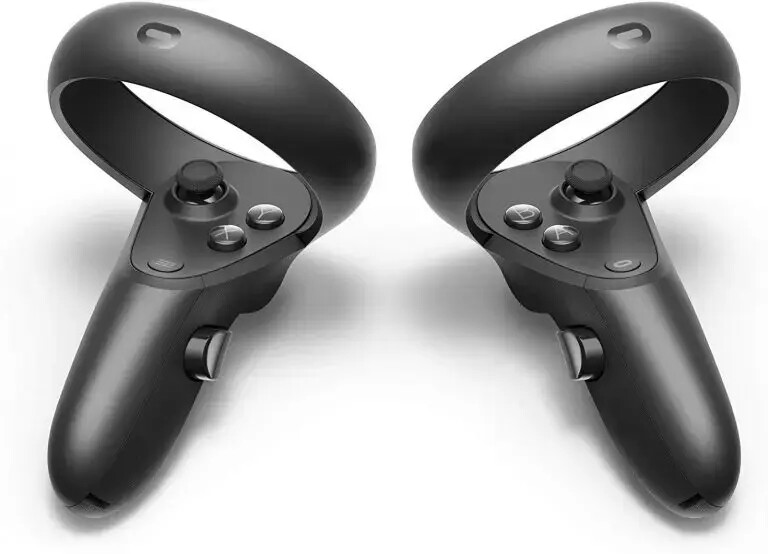
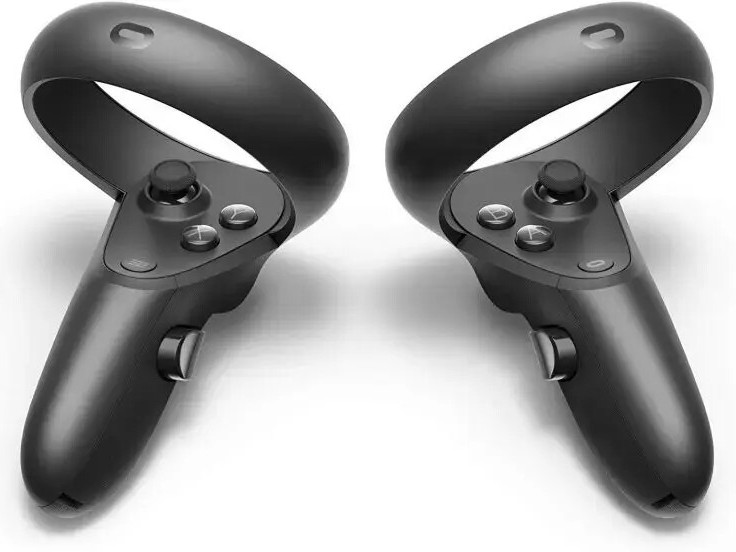
Update image format in Problem

diff --git a/_sections/2-problem.md b/_sections/2-problem.md
@@ -9,19 +9,47 @@ There currently is not a standard unified interface in Virtual Reality (VR), and
 
 
 
->The song selection menu in Beat Saber, one of the most popular VR games, is based on user interface design for 2D surface interactions
->
->![Beat Saber](assets/images/related-works/beat-saber.jpg)
-> <sub>Beat Games, "Beat Saber"</sub>
+
+  <div class="6u 12u$(mobile)">
+    <div class="item">
+      <a class="image fit"><img src="assets/images/related-works/beat-saber.jpg" alt="Beat Saber" /></a>
+      <header>
+        <h3>Beat Games, <i>Beat Saber</i></h3>
+      </header>
+    </div>
+  </div>
+The song selection menu in Beat Saber, one of the most popular VR games, is based on user interface design for 2D surface interactions
 
 
-\
 VR provides the sense of embodiment by mapping the player's movement to the avatar in virtual space. However, most experiences do not utilize this feature, and the player's embodied virtual body is not being used. Furthermore, the player manipulates the VR environment by pressing buttons on the controllers, which could potentially break immersion.
 
-> Most VR controllers' button mapping is similar to traditional game controllers
->
->![Oculus Quest Controllers](assets/images/related-works/quest-controllers.jpg)
-> <sub>Oculus Quest Controllers</sub>
+<div class="row">
+  <div class="4u 12u$(mobile)">
+    <div class="item">
+      <a class="image fit"><img src="assets/images/related-works/psvr-controllers.png" alt="PlayStation VR Controllers" /></a>
+      <header>
+        <h3>PlayStation VR Controllers</h3>
+      </header>
+    </div>
+  </div>
+  <div class="4u 12u$(mobile)">
+    <div class="item">
+      <a class="image fit"><img src="assets/images/related-works/quest-controllers.jpg" alt="Oculus Quest Controllers" /></a>
+      <header>
+        <h3>Oculus Quest Controllers</h3>
+      </header>
+    </div>
+  </div>
+  <div class="4u 12u$(mobile)">
+    <div class="item">
+      <a class="image fit"><img src="assets/images/related-works/vive-controllers.jpg" alt="HTC Vive Controllers" /></a>
+      <header>
+        <h3>HTC Vive Controllers</h3>
+      </header>
+    </div>
+  </div>
+</div>
+Most VR controllers' button mapping is similar to traditional game controllers. HTC Vive Controllers being the exeption. However, it does requires users to learn the mapping.
 
-\
+
 Since VR interaction is particularly powerful when it uses embodiment, holding on to traditional game controllers could potentially break the immersion.

diff --git a/_sections/3-background.md b/_sections/3-background.md
@@ -6,7 +6,7 @@ order: 3
 
 ### Interaction Design Framework
 
-Shneiderman defined <b>three principles of direct manipulation for designing a controllable user interface</b> <sub>[shneiderman1997direct]</sub>. His notion of direct manipulation was to differentiate from the traditional command-line interface at the time. It still provides valuable insights on how to design for a predictable and controllable user interface:
+Shneiderman defined **three principles of direct manipulation for designing a controllable user interface** <sub>[shneiderman1997direct]</sub>. His notion of direct manipulation was to differentiate from the traditional command-line interface at the time. It still provides valuable insights on how to design for a predictable and controllable user interface:
 1. Continuous representation of the objects and actions of interest.
 2. Physical actions or presses of labeled buttons instead of complex syntax.
 3. Rapid incremental reversible operations whose effect on the object of interest is immediately visible.
